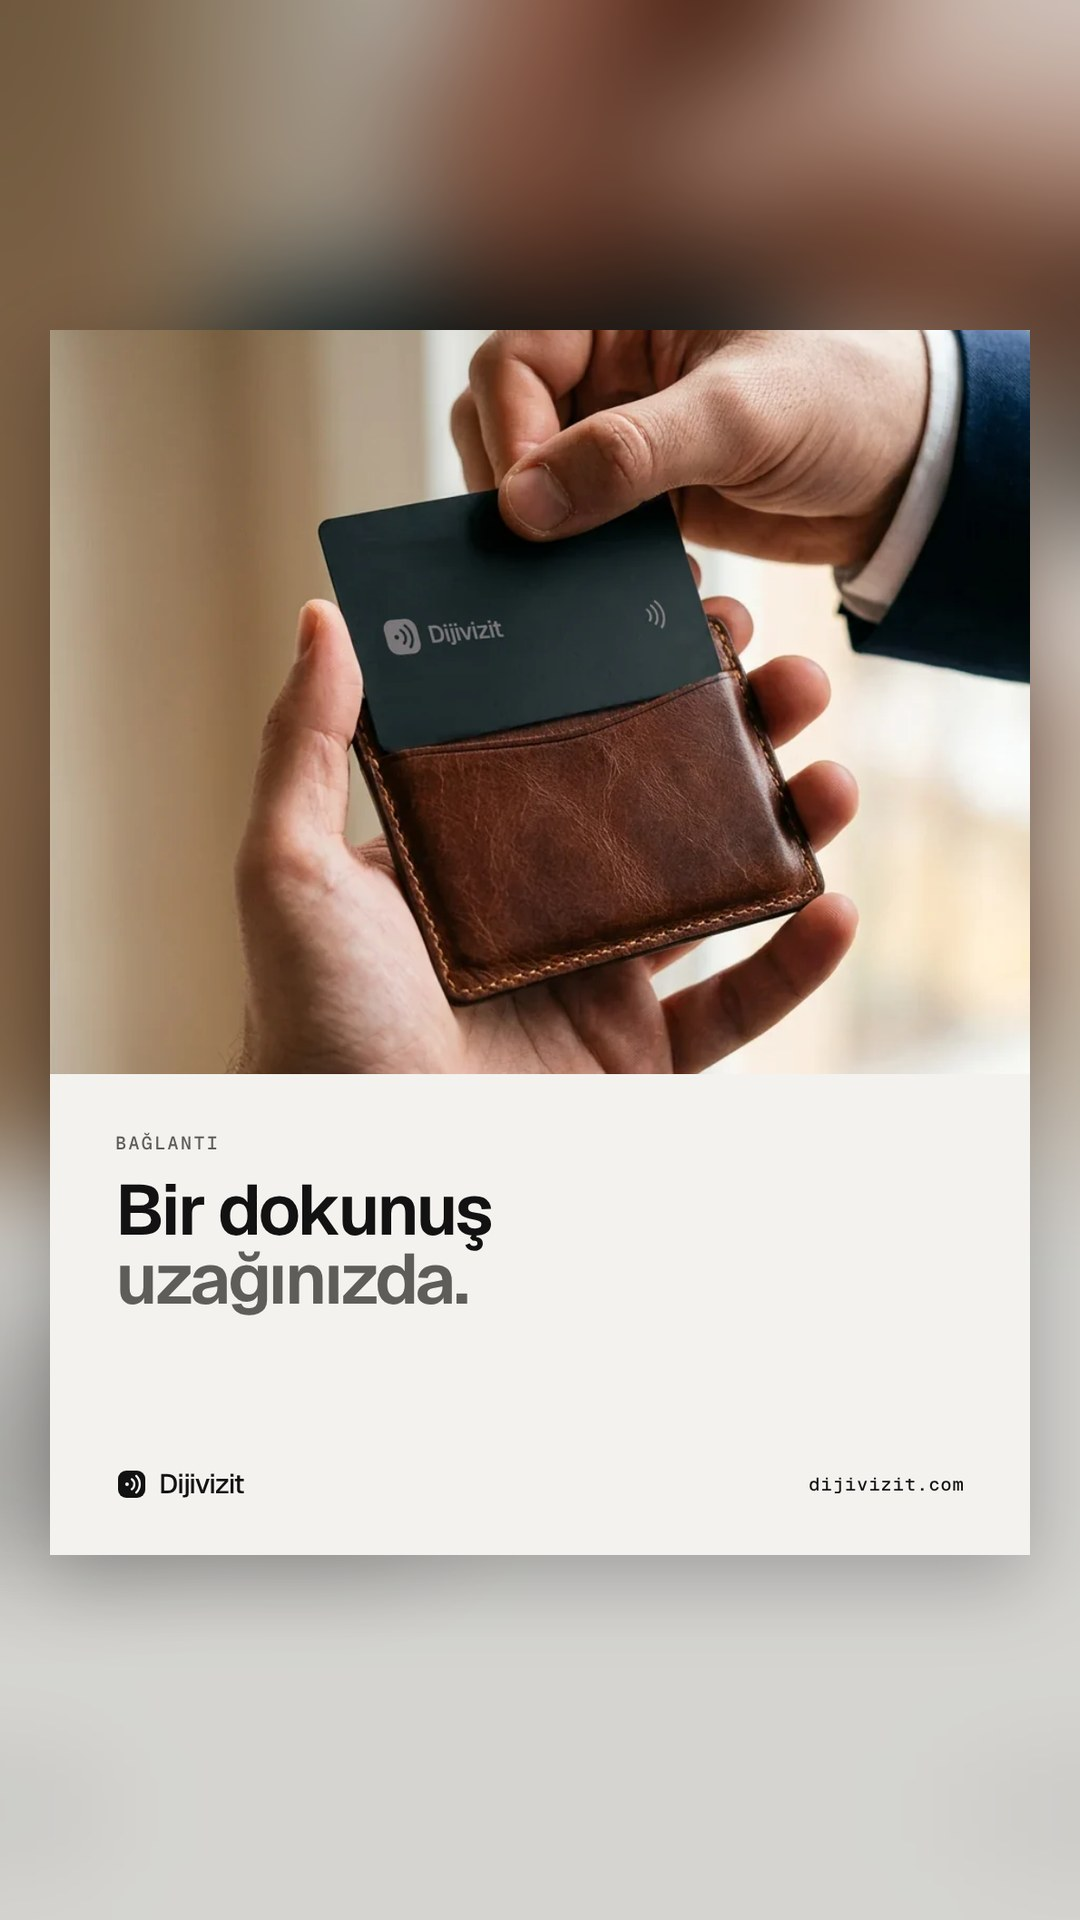
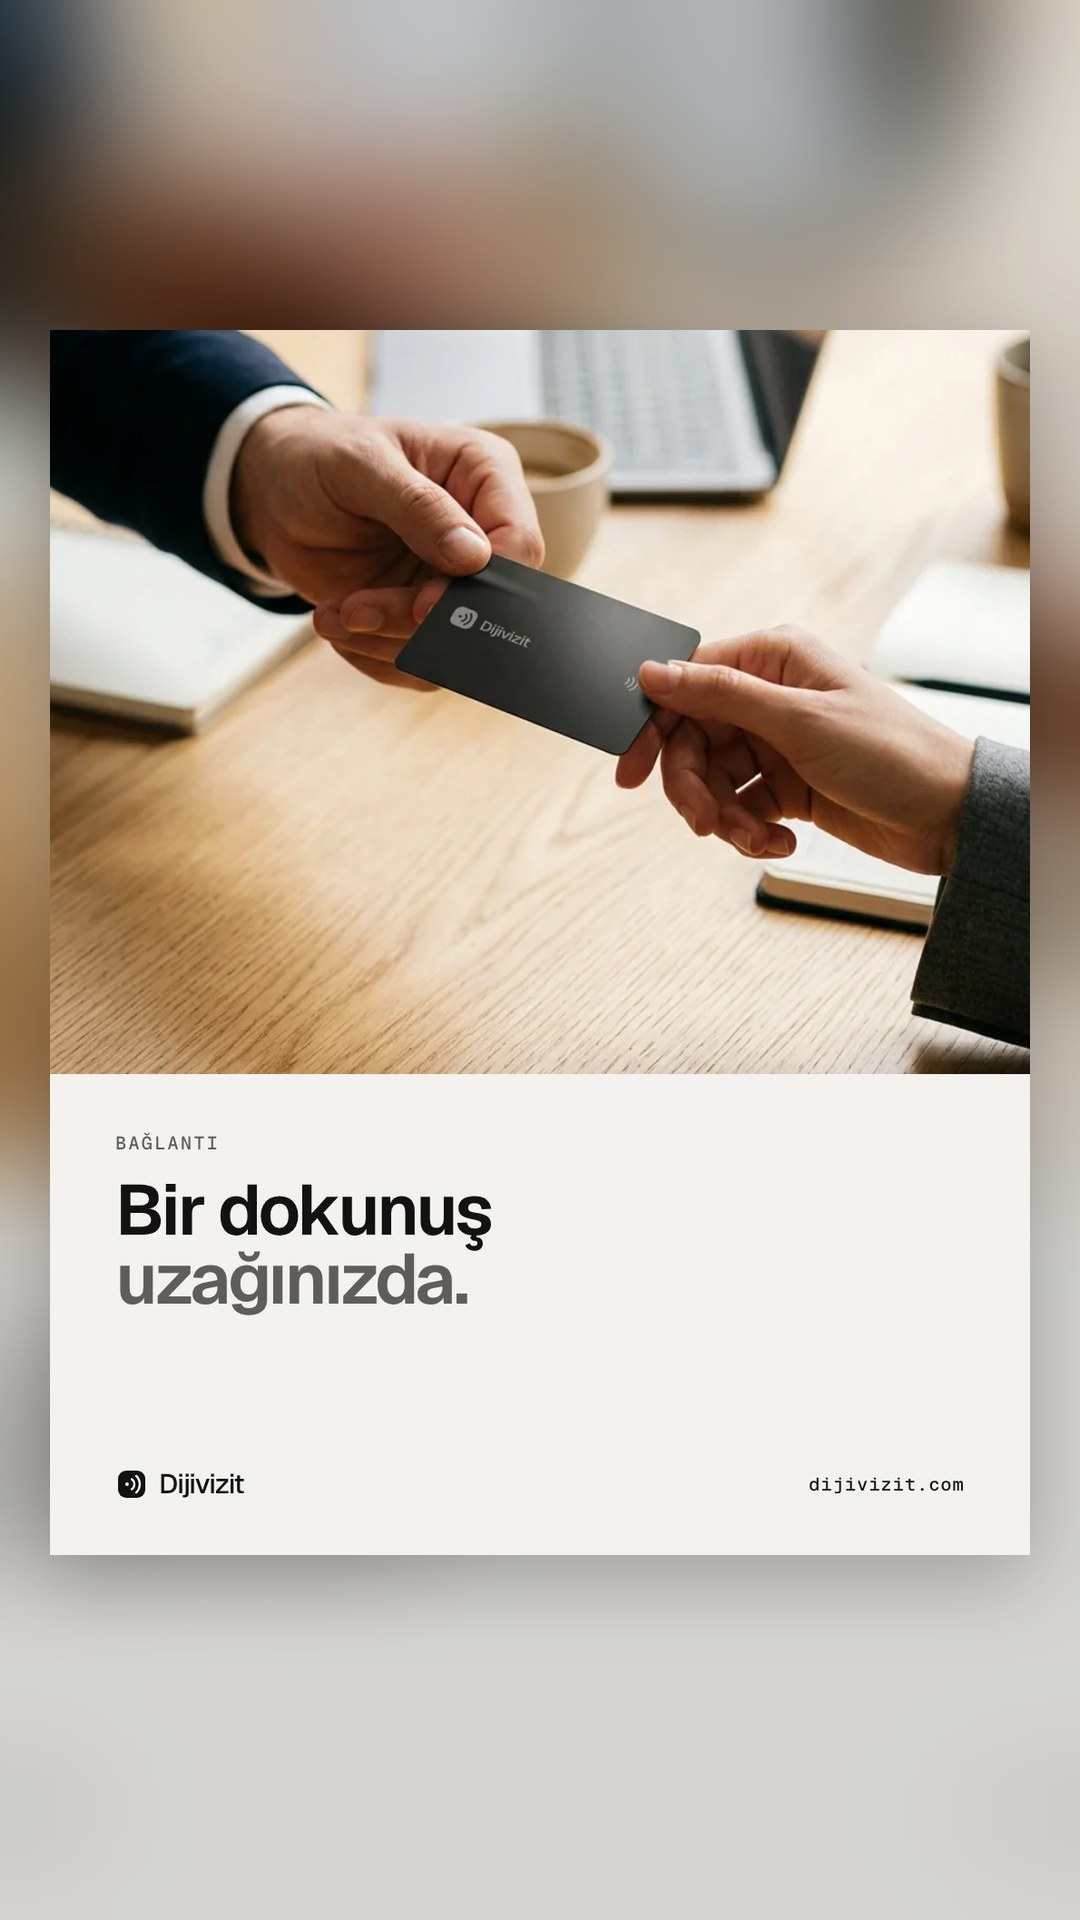
Replace the wallet photo (card larger than its holder) with the collection render; posts 42 and 44 drop it too
Claude-Session: https://claude.ai/code/session_01RbxPV14g2sV64gxynTKrXk

diff --git a/app/(marketing)/page.tsx b/app/(marketing)/page.tsx
@@ -294,8 +294,8 @@ export default function HomePage() {
             </div>
           </div>
           <LifestyleImage
-            src="/landing/lifestyle/wallet.webp"
-            alt="Deri kartlıktan çıkarılan siyah metal Dijivizit NFC kartvizit"
+            src="/landing/lifestyle/collection.webp"
+            alt="Dijivizit NFC kartvizit kaplamaları: açık ve koyu ahşap, gold, gümüş ve siyah metal"
           />
         </div>
       </section>
